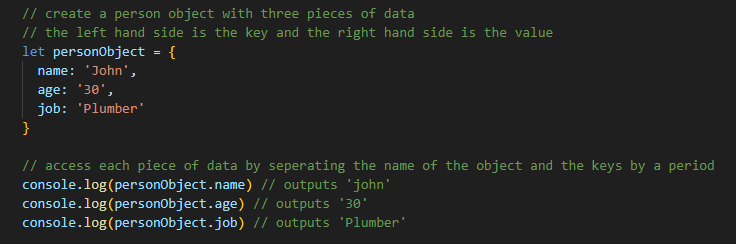
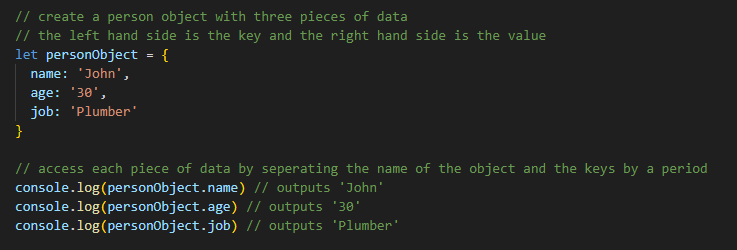
Fix images in javascript-dom blog

diff --git a/blog/javascript-dom.html b/blog/javascript-dom.html
@@ -76,7 +76,7 @@
           <section class="blog-category g10">
             <h3>Functions</h3>
             <p>Functions in JavaScript are a block of code made up of a sequence of statements. Functions can be called at any point in the code as many times as needed.
-              Functions have a return value which is returned to the point of code the function is called. The caller can also pass in data to the function called parameters where the data
+              Functions have a return value which is returned to the point of code the function is called. The caller can also pass in data to the function in the form of parameters where the data
               will be used inside of the function to produce the desired output.
             </p>
             <p>Functions are useful because they avoid the need to repeat code as well as improving readability.</p>

diff --git a/scripts/script.js b/scripts/script.js
@@ -10,10 +10,12 @@ function r255(){
 
 
 // create array containing names of different sports
-let sportsArray = ['Basketball', 'Netball', 'Rugby', 'Soccer']
+let sportsArray = ['Basketball', 'Netball', 'Rugby']
 
 // access the first word in the array using square brackets with the index of 0 inside
 console.log(sportsArray[0]) // this will output 'Basketball'
+console.log(sportsArray[1]) // this will output 'Netball'
+console.log(sportsArray[2]) // this will output 'Rugby'
 
 
 // create a person object with three pieces of data
@@ -25,6 +27,6 @@ let personObject = {
 }
 
 // access each piece of data by seperating the name of the object and the keys by a period
-console.log(personObject.name) // outputs 'john'
+console.log(personObject.name) // outputs 'John'
 console.log(personObject.age) // outputs '30'
 console.log(personObject.job) // outputs 'Plumber'
